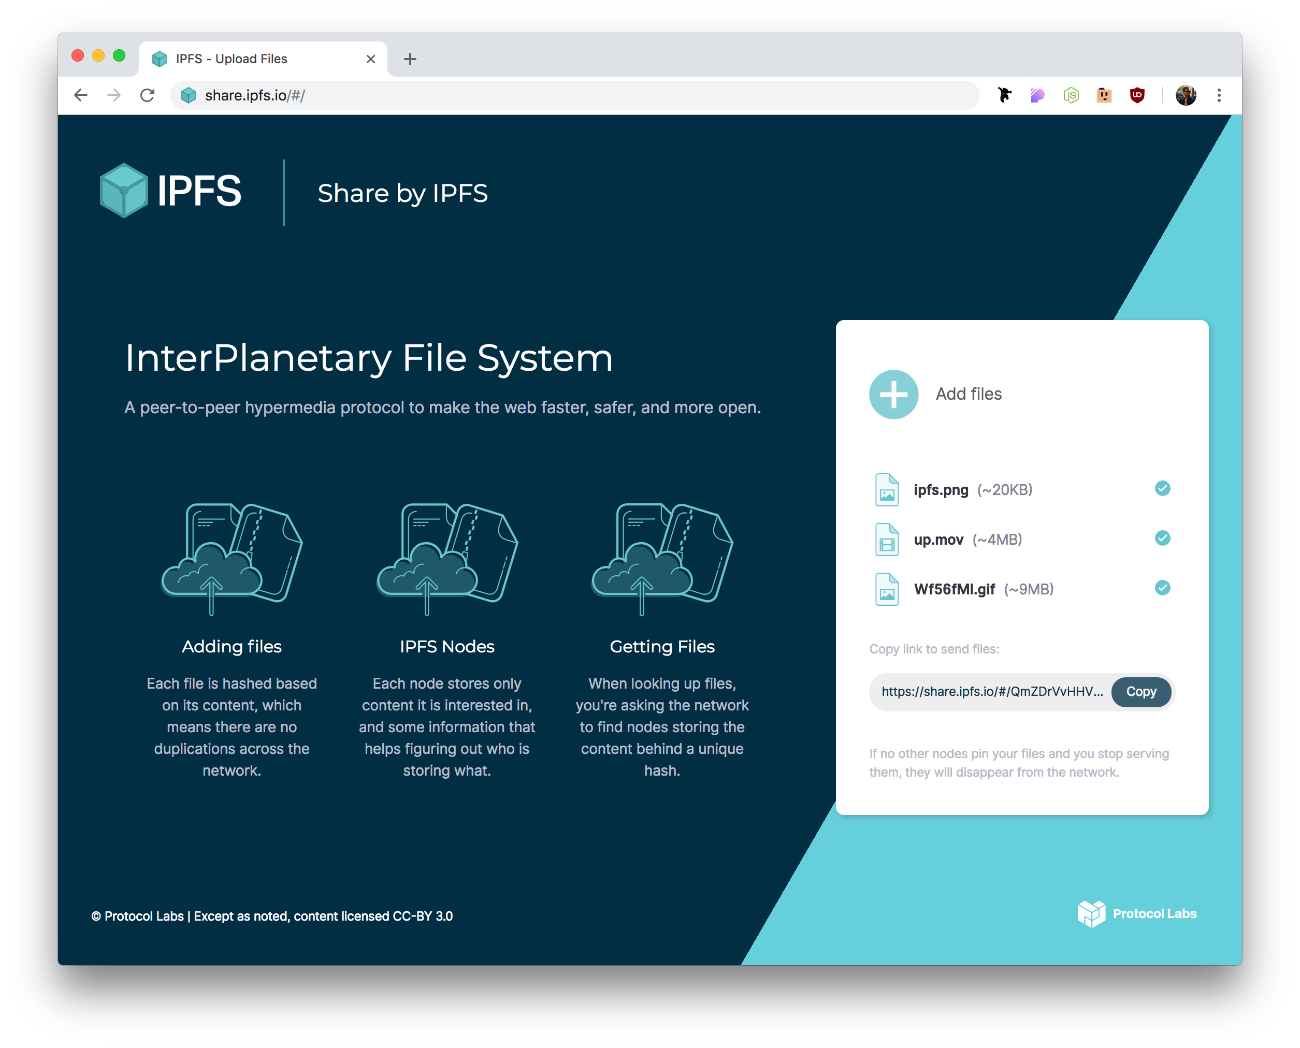
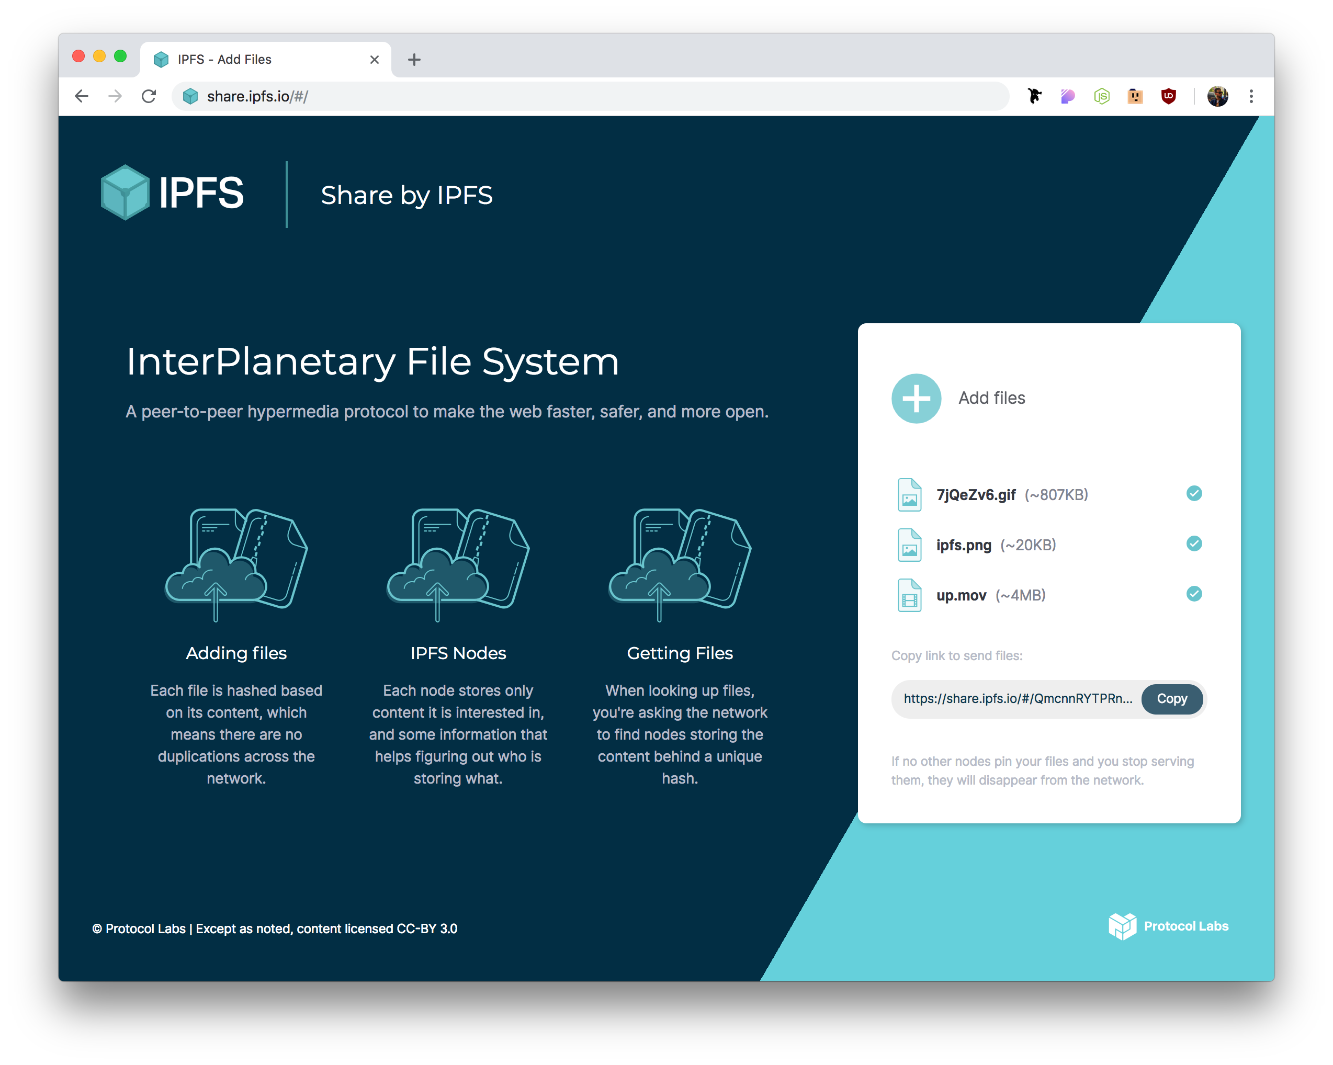
chore: channge upload to add

diff --git a/src/components/info/Info.js b/src/components/info/Info.js
@@ -2,7 +2,7 @@ import React from 'react'
 import { translate } from 'react-i18next'
 
 // Static
-import uploadImg from '../../media/images/upload.svg'
+import addImg from '../../media/images/add.svg'
 
 const Info = ({ t, imgHeigth = 110 }) => {
   const labelClass = 'mv3 white montserrat'
@@ -16,19 +16,19 @@ const Info = ({ t, imgHeigth = 110 }) => {
 
       <div className='flex'>
         <div className='pa3 tc' style={copyStyle}>
-          <img src={uploadImg} height={imgHeigth} alt='Upload' />
+          <img src={addImg} height={imgHeigth} alt='Add' />
           <div className={labelClass}>{t('info.labelAdding')}</div>
           <div className={copyClass}>{t('info.copyAdding')}</div>
         </div>
 
         <div className='pa3 tc' style={copyStyle}>
-          <img src={uploadImg} height={imgHeigth} alt='Upload' />
+          <img src={addImg} height={imgHeigth} alt='Add' />
           <div className={labelClass}>{t('info.labelNodes')}</div>
           <div className={copyClass}>{t('info.copyNodes')}</div>
         </div>
 
         <div className='pa3 tc' style={copyStyle}>
-          <img src={uploadImg} height={imgHeigth} alt='Upload' />
+          <img src={addImg} height={imgHeigth} alt='Add' />
           <div className={labelClass}>{t('info.labelGetting')}</div>
           <div className={copyClass}>{t('info.copyGetting')}</div>
         </div>

diff --git a/src/page/Page.js b/src/page/Page.js
@@ -9,7 +9,7 @@ import isIPFS from 'is-ipfs'
 import PAGES from '../constants/pages'
 
 // Components
-import { BoxUpload, BoxDownload, BoxNotAvailable } from '../components/box/Box'
+import { BoxAdd, BoxDownload, BoxNotAvailable } from '../components/box/Box'
 import Info from '../components/info/Info'
 
 class Page extends React.Component {
@@ -54,13 +54,13 @@ class Page extends React.Component {
     } else if (ipfsInitFailed) {
       content = <BoxNotAvailable />
     } else {
-      content = <BoxUpload files={files} shareLink={shareLink} isLoading={isLoading} />
+      content = <BoxAdd files={files} shareLink={shareLink} isLoading={isLoading} />
     }
 
     return (
       <div data-id='Page'>
         <Helmet>
-          <title>{t('pageTitle.ipfs')} - { isDownload ? t('pageTitle.download') : t('pageTitle.upload') }</title>
+          <title>{t('pageTitle.ipfs')} - { isDownload ? t('pageTitle.download') : t('pageTitle.add') }</title>
         </Helmet>
 
         <div className='flex flex-column flex-row-l justify-center items-center'>

diff --git a/src/components/box/Box.stories.js b/src/components/box/Box.stories.js
@@ -4,7 +4,7 @@ import { checkA11y } from '@storybook/addon-a11y'
 import i18n from '../../i18n-decorator'
 import { Provider } from 'redux-bundler-react'
 import getStore from '../../bundles'
-import { BoxUpload, BoxDownload, BoxNotAvailable } from './Box'
+import { BoxAdd, BoxDownload, BoxNotAvailable } from './Box'
 import fixtures from './fixtures/root.json'
 
 const wrapperClass = 'flex flex-auto pa3 bg-navy sans-serif'
@@ -17,9 +17,9 @@ storiesOf('Box', module)
       { story() }
     </Provider>
   ))
-  .add('Upload', () => (
+  .add('Add', () => (
     <div className={wrapperClass}>
-      <BoxUpload files={fixtures.files} shareLink={fixtures.shareLink} />
+      <BoxAdd files={fixtures.files} shareLink={fixtures.shareLink} />
     </div>
   ))
   .add('Download', () => (

diff --git a/src/components/box/Box.js b/src/components/box/Box.js
@@ -22,7 +22,7 @@ export const BoxDownload = ({ files, isLoading }) => (
   </Box>
 )
 
-export const RawBoxUpload = ({ files, isLoading, shareLink, t }) => (
+export const RawBoxAdd = ({ files, isLoading, shareLink, t }) => (
   <Box>
     <AddFiles />
     { isLoading && <Loader /> }
@@ -34,7 +34,7 @@ export const RawBoxUpload = ({ files, isLoading, shareLink, t }) => (
   </Box>
 )
 
-export const BoxUpload = translate()(RawBoxUpload)
+export const BoxAdd = translate()(RawBoxAdd)
 
 export const RawBoxNotAvailable = ({ t }) => (
   <Box>

diff --git a/src/bundles/files.js b/src/bundles/files.js
@@ -165,7 +165,7 @@ export default {
     'selectExistFiles',
     'selectExistFilesPending',
     (isShareLinkOutdated, currentPage, existFiles, existFilesPending) => {
-      if (currentPage === PAGES.upload && isShareLinkOutdated && existFiles && !existFilesPending) {
+      if (currentPage === PAGES.add && isShareLinkOutdated && existFiles && !existFilesPending) {
         return { actionCreator: 'doShareLink' }
       }
     }

diff --git a/src/components/file/File.stories.js b/src/components/file/File.stories.js
@@ -15,7 +15,7 @@ storiesOf('File', module)
         size={265318832} />
     </div>
   ))
-  .add('Uploading', () => (
+  .add('Adding', () => (
     <div className={wrapperClass}>
       <File
         hash='Qm3fsA'
@@ -24,7 +24,7 @@ storiesOf('File', module)
         progress={70} />
     </div>
   ))
-  .add('Uploaded', () => (
+  .add('Added', () => (
     <div className={wrapperClass}>
       <File
         hash='Qm3fsA'

diff --git a/src/bundles/routes.js b/src/bundles/routes.js
@@ -10,7 +10,7 @@ const bundle = createRouteBundle({
 
 bundle.selectCurrentPage = createSelector(
   'selectRouteInfo',
-  ({ url, params }) => (url.startsWith('/add') || !params.hash) ? PAGES.upload : PAGES.download
+  ({ url, params }) => (url.startsWith('/add') || !params.hash) ? PAGES.add : PAGES.download
 )
 
 export default bundle

diff --git a/src/constants/pages.js b/src/constants/pages.js
@@ -1,4 +1,4 @@
 export default {
-  upload: 'upload',
+  add: 'add',
   download: 'download'
 }
